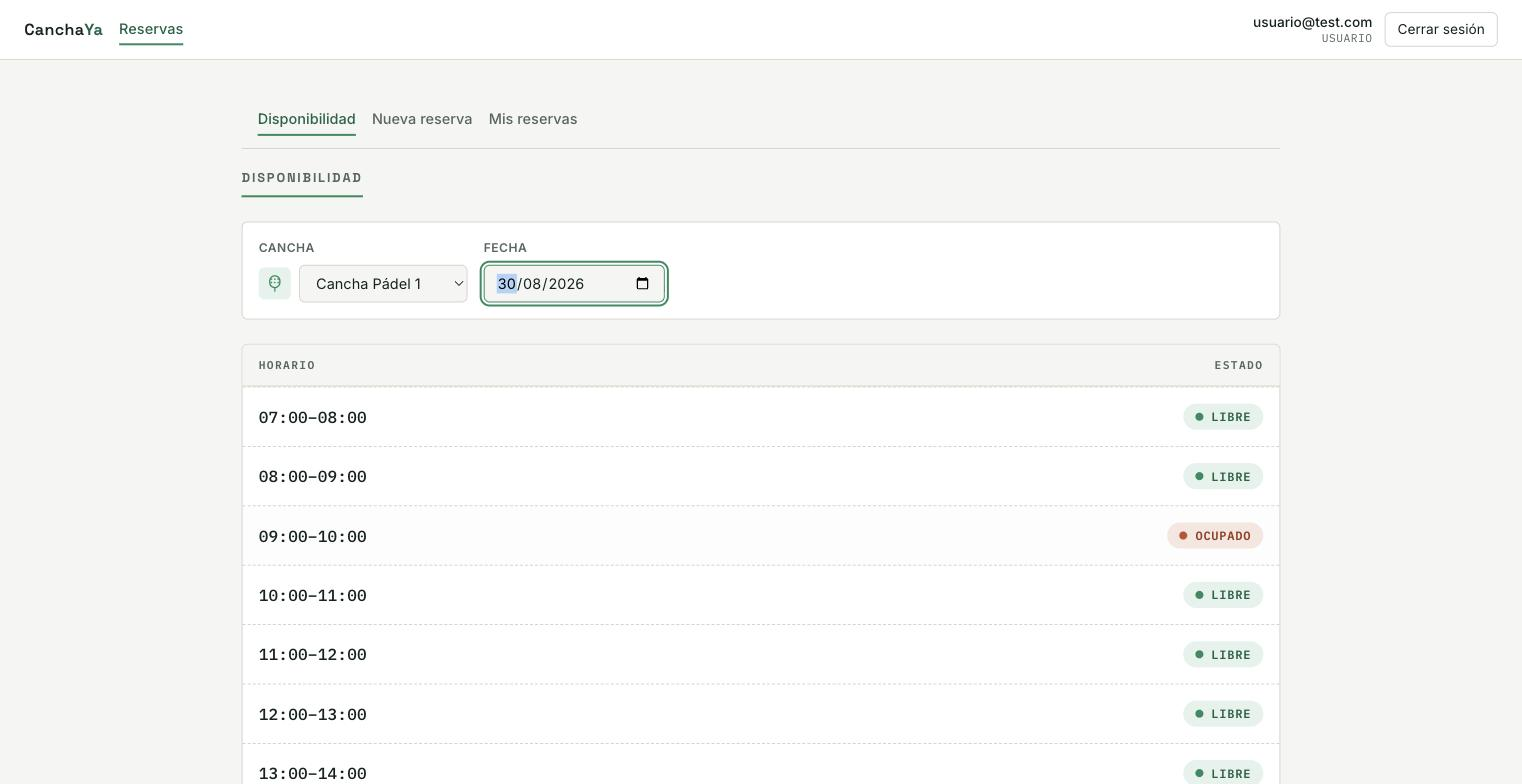
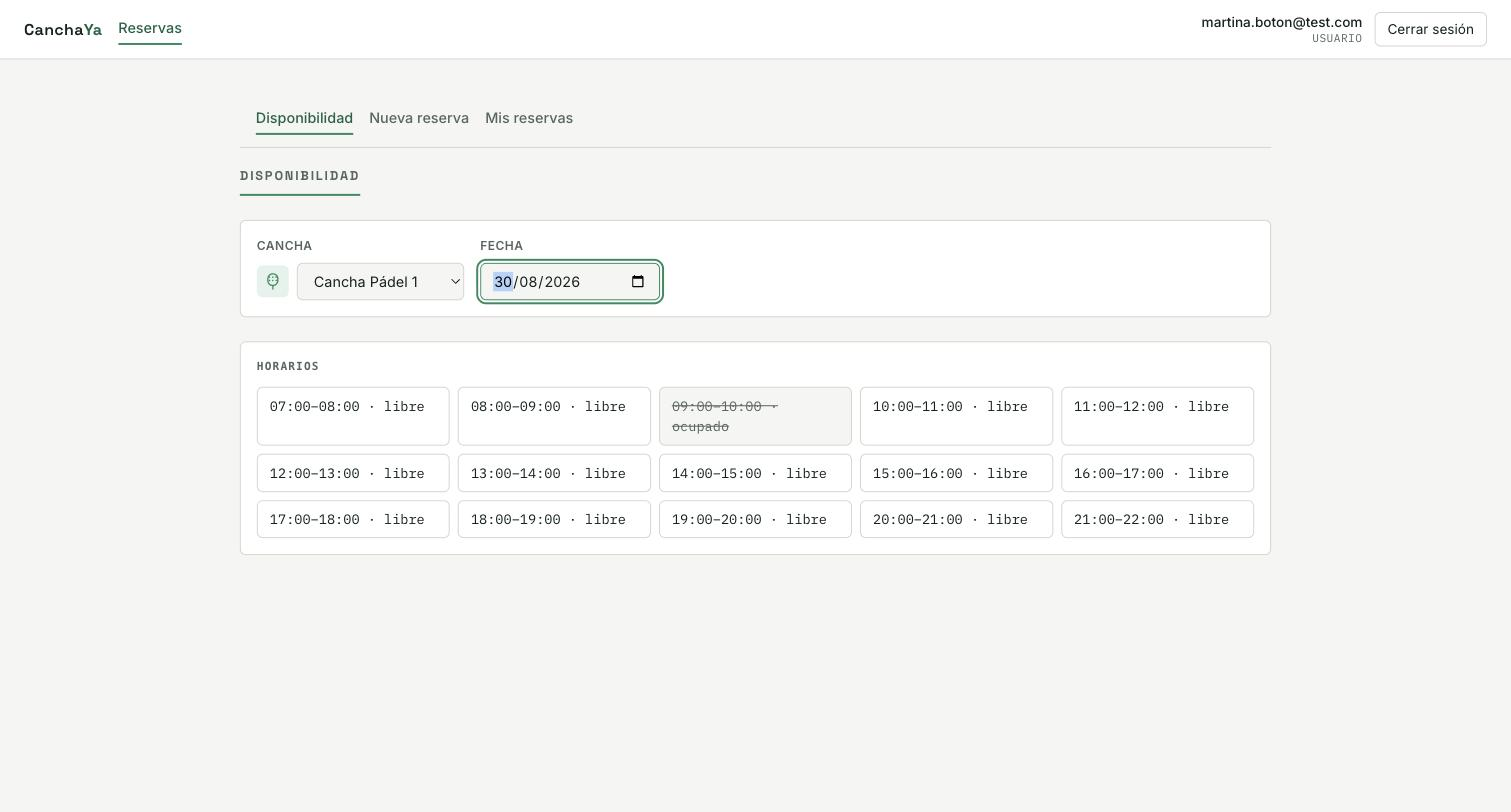
style(mf-reservas): unifica Disponibilidad con la grilla de tarjetas de Nueva reserva
BloquesGrid usaba una tabla ("pizarra de turnos") con look propio, distinto
al grid de tarjetas de ReservaForm — a pedido, ahora comparten el mismo
lenguaje visual (misma tarjeta, mismo grid, mismo tratamiento mono/estado).
Sigue siendo de solo lectura (sin radios): Disponibilidad no tiene acción de
confirmar. Contrato de tests sin cambios (data-testid="bloque" + data-estado).

docs: actualiza la captura de Disponibilidad con el nuevo look y agrega
capturas del registro de usuarios (formulario + autologin/redirect real).

diff --git a/frontend/apps/mf-reservas/src/features/disponibilidad/BloquesGrid.css b/frontend/apps/mf-reservas/src/features/disponibilidad/BloquesGrid.css
@@ -1,97 +1,44 @@
-/*
- * Signature element (frontend-design): la grilla de disponibilidad como
- * pizarra de turnos real — horarios en monoespaciada, chips libre/ocupado
- * con puntito indicador, separadores tipo "línea de red" (borde punteado).
- * Único lugar del proyecto donde el diseño se permite "lucirse".
- */
+/* Unificado con ReservaForm (Nueva reserva, 2026-08-29): misma tarjeta,
+ * mismo grid, mismo tratamiento mono/estado — para que Disponibilidad y
+ * Nueva reserva se sientan la misma pantalla en dos modos (lectura vs.
+ * selección), no dos diseños distintos. */
 
 .mfr-bloques-grid {
   border: 1px solid var(--line);
   border-radius: var(--radius);
   background: var(--surface);
-  overflow: hidden;
+  padding: var(--space-4);
 }
 
-.mfr-bloques-grid-header {
-  display: grid;
-  grid-template-columns: 1fr auto;
-  gap: var(--space-4);
-  padding: var(--space-3) var(--space-4);
-  background: var(--bg);
-  border-bottom: 1px solid var(--line);
-}
-
-.mfr-bloques-grid-header span {
+.mfr-bloques-grid-label {
+  display: block;
   font-family: var(--font-mono);
   font-size: 0.7rem;
   font-weight: 600;
-  letter-spacing: 0.12em;
+  letter-spacing: 0.1em;
   text-transform: uppercase;
   color: var(--ink-muted);
+  margin-bottom: var(--space-3);
+}
+
+.mfr-bloques-options {
+  display: grid;
+  grid-template-columns: repeat(auto-fill, minmax(160px, 1fr));
+  gap: var(--space-2);
 }
 
 .mfr-bloque {
-  display: grid;
-  grid-template-columns: 1fr auto;
-  align-items: center;
-  gap: var(--space-4);
-  padding: var(--space-4);
-  transition: background var(--transition);
+  font-family: var(--font-mono);
+  font-size: 0.85rem;
+  padding: var(--space-2) var(--space-3);
+  border: 1px solid var(--line);
+  border-radius: var(--radius);
 }
 
-.mfr-bloque:not(:first-child) {
-  /* "línea de red": separador punteado entre turnos, como una cancha rayada */
-  border-top: 1px dashed var(--line);
-}
-
-.mfr-bloque:hover {
+.mfr-bloque[data-estado="ocupado"] {
+  color: var(--ink-muted);
   background: var(--bg);
-}
-
-.mfr-bloque-hora {
-  font-family: var(--font-mono);
-  font-size: 1rem;
-  font-weight: 500;
-  color: var(--ink);
-  letter-spacing: 0.01em;
-}
-
-.mfr-bloque-estado {
-  display: inline-flex;
-  align-items: center;
-  gap: var(--space-2);
-  font-family: var(--font-mono);
-  font-size: 0.75rem;
-  font-weight: 600;
-  letter-spacing: 0.06em;
-  text-transform: uppercase;
-  padding: var(--space-1) var(--space-3);
-  border-radius: 999px;
-}
-
-.mfr-dot {
-  width: 8px;
-  height: 8px;
-  border-radius: 999px;
-  flex-shrink: 0;
-}
-
-.mfr-bloque[data-estado="libre"] .mfr-bloque-estado {
-  color: var(--turf-text);
-  background: var(--turf-soft);
-}
-
-.mfr-bloque[data-estado="libre"] .mfr-dot {
-  background: var(--turf);
-}
-
-.mfr-bloque[data-estado="ocupado"] .mfr-bloque-estado {
-  color: var(--clay-text);
-  background: var(--clay-soft);
-}
-
-.mfr-bloque[data-estado="ocupado"] .mfr-dot {
-  background: var(--clay);
+  text-decoration: line-through;
 }
 
 .mfr-bloques-grid-vacia {

diff --git a/frontend/apps/mf-reservas/src/features/disponibilidad/BloquesGrid.tsx b/frontend/apps/mf-reservas/src/features/disponibilidad/BloquesGrid.tsx
@@ -2,6 +2,10 @@
 // adapter tal cual (`libre`/`ocupado`), sin inferir ocupación de otra
 // fuente. Cancha sin horario ese día ⇒ `bloques` vacío ⇒ mensaje vacío, sin
 // error (design.md §7, requirement "Cancha sin horario de atención ese día").
+// Mismo layout de grilla de tarjetas que ReservaForm (Nueva reserva) —
+// unificado a pedido (2026-08-29): antes era una tabla con look propio
+// ("pizarra de turnos"), ahora usa el mismo lenguaje visual en toda la
+// sección Reservas. No es interactivo (sin radios): es solo lectura.
 import type { BloqueDisponibilidad } from "../../api";
 import "./BloquesGrid.css";
 
@@ -20,26 +24,19 @@ export function BloquesGrid({ bloques }: BloquesGridProps) {
 
   return (
     <div data-testid="bloques-grid" className="mfr-bloques-grid">
-      <div className="mfr-bloques-grid-header">
-        <span>Horario</span>
-        <span>Estado</span>
+      <span className="mfr-bloques-grid-label">Horarios</span>
+      <div className="mfr-bloques-options">
+        {bloques.map((bloque) => (
+          <div
+            key={`${bloque.horaInicio}-${bloque.horaFin}`}
+            data-testid="bloque"
+            data-estado={bloque.estado}
+            className="mfr-bloque"
+          >
+            {bloque.horaInicio.slice(0, 5)}–{bloque.horaFin.slice(0, 5)} · {bloque.estado}
+          </div>
+        ))}
       </div>
-      {bloques.map((bloque) => (
-        <div
-          key={`${bloque.horaInicio}-${bloque.horaFin}`}
-          data-testid="bloque"
-          data-estado={bloque.estado}
-          className="mfr-bloque"
-        >
-          <span className="mfr-bloque-hora">
-            {bloque.horaInicio.slice(0, 5)}–{bloque.horaFin.slice(0, 5)}
-          </span>
-          <span className="mfr-bloque-estado">
-            <span className="mfr-dot" aria-hidden="true" />
-            {bloque.estado}
-          </span>
-        </div>
-      ))}
     </div>
   );
 }
